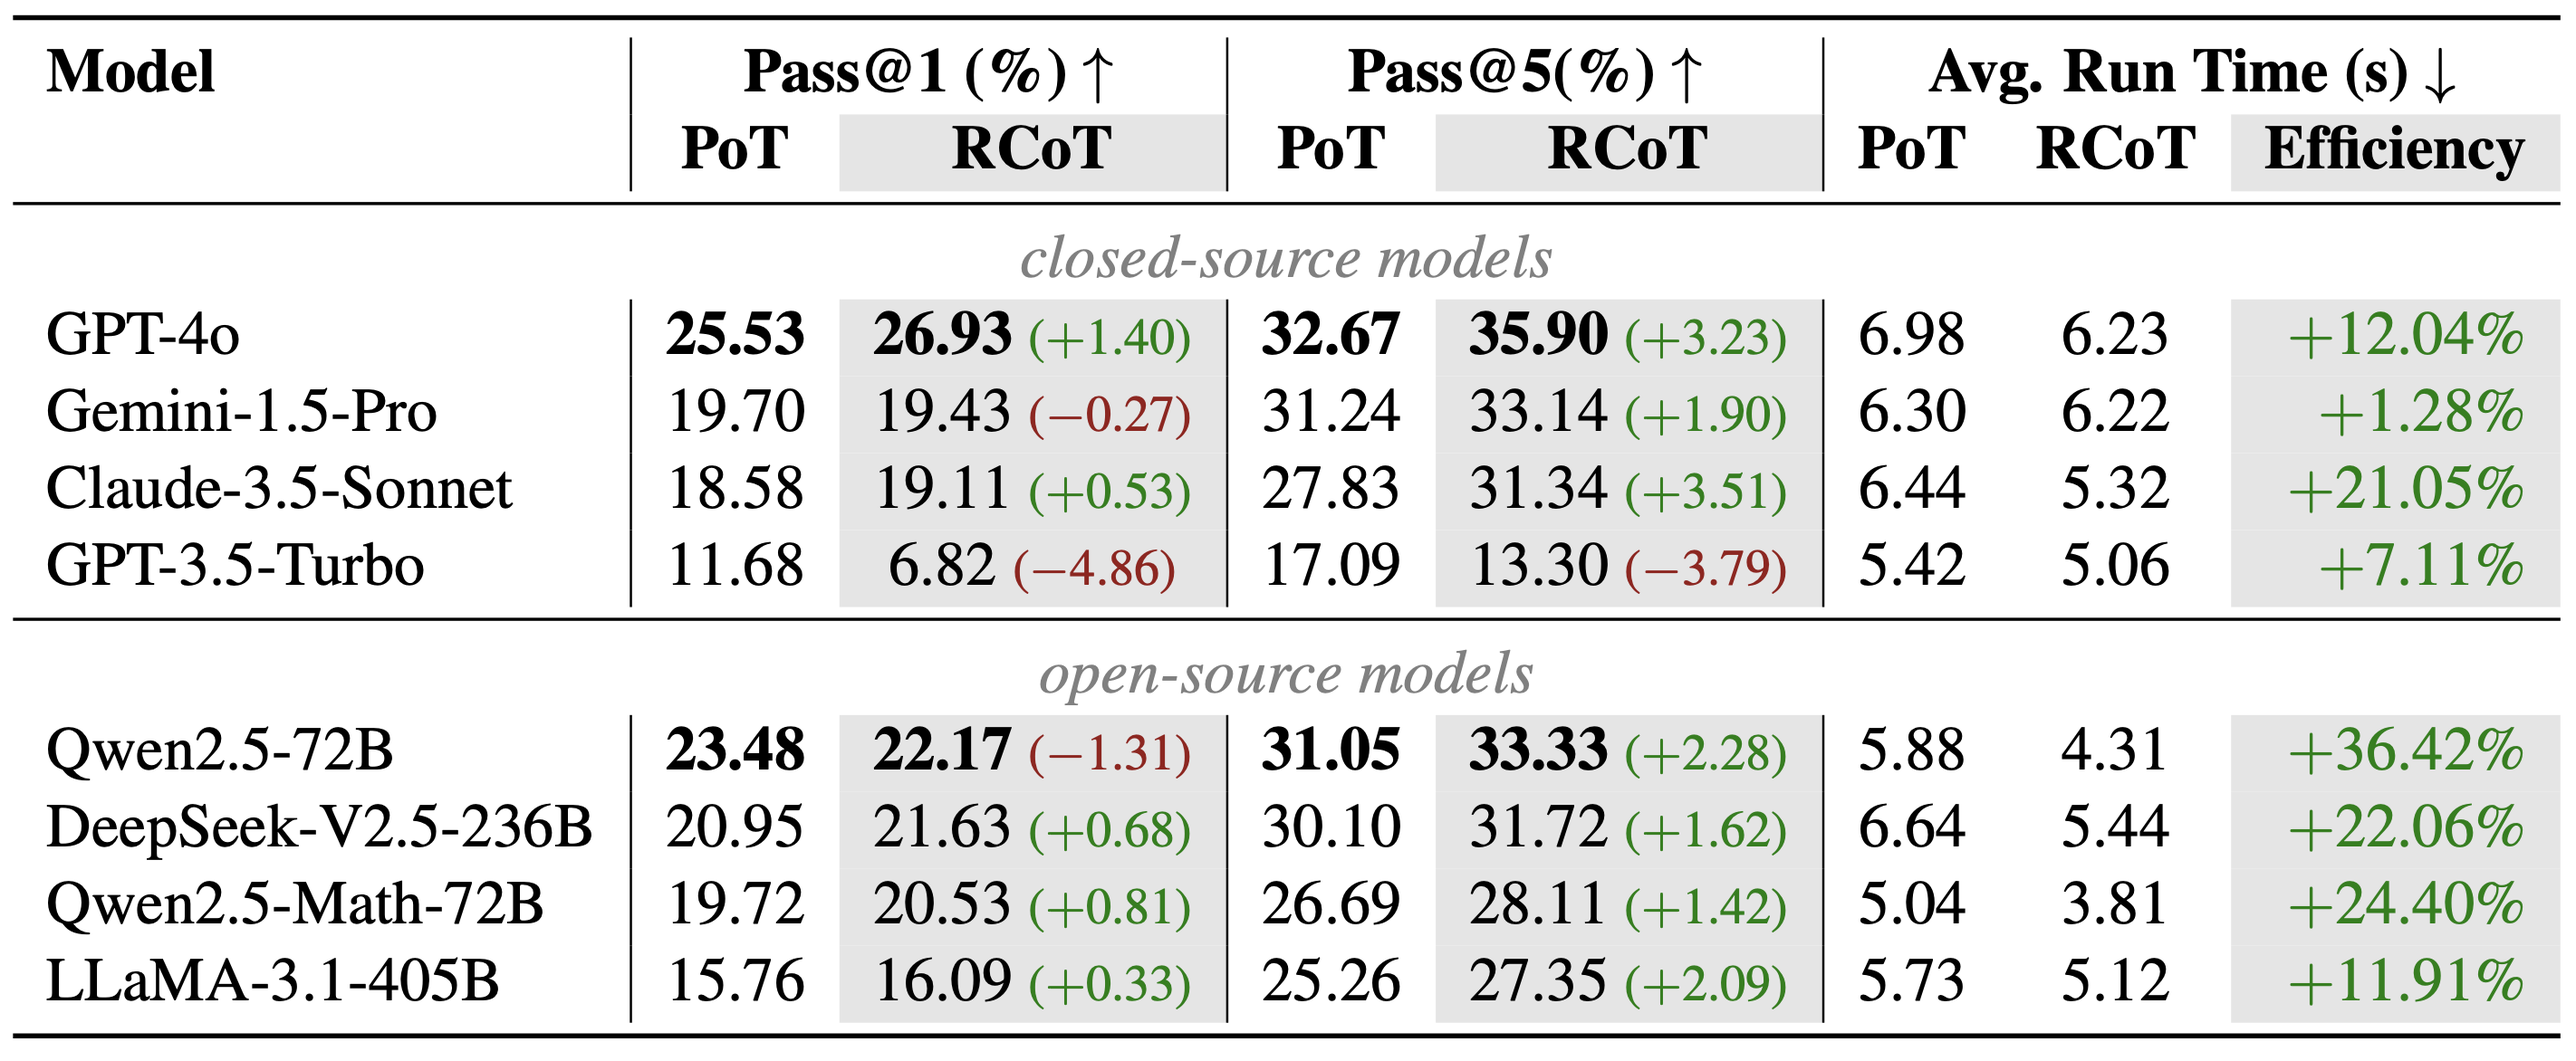
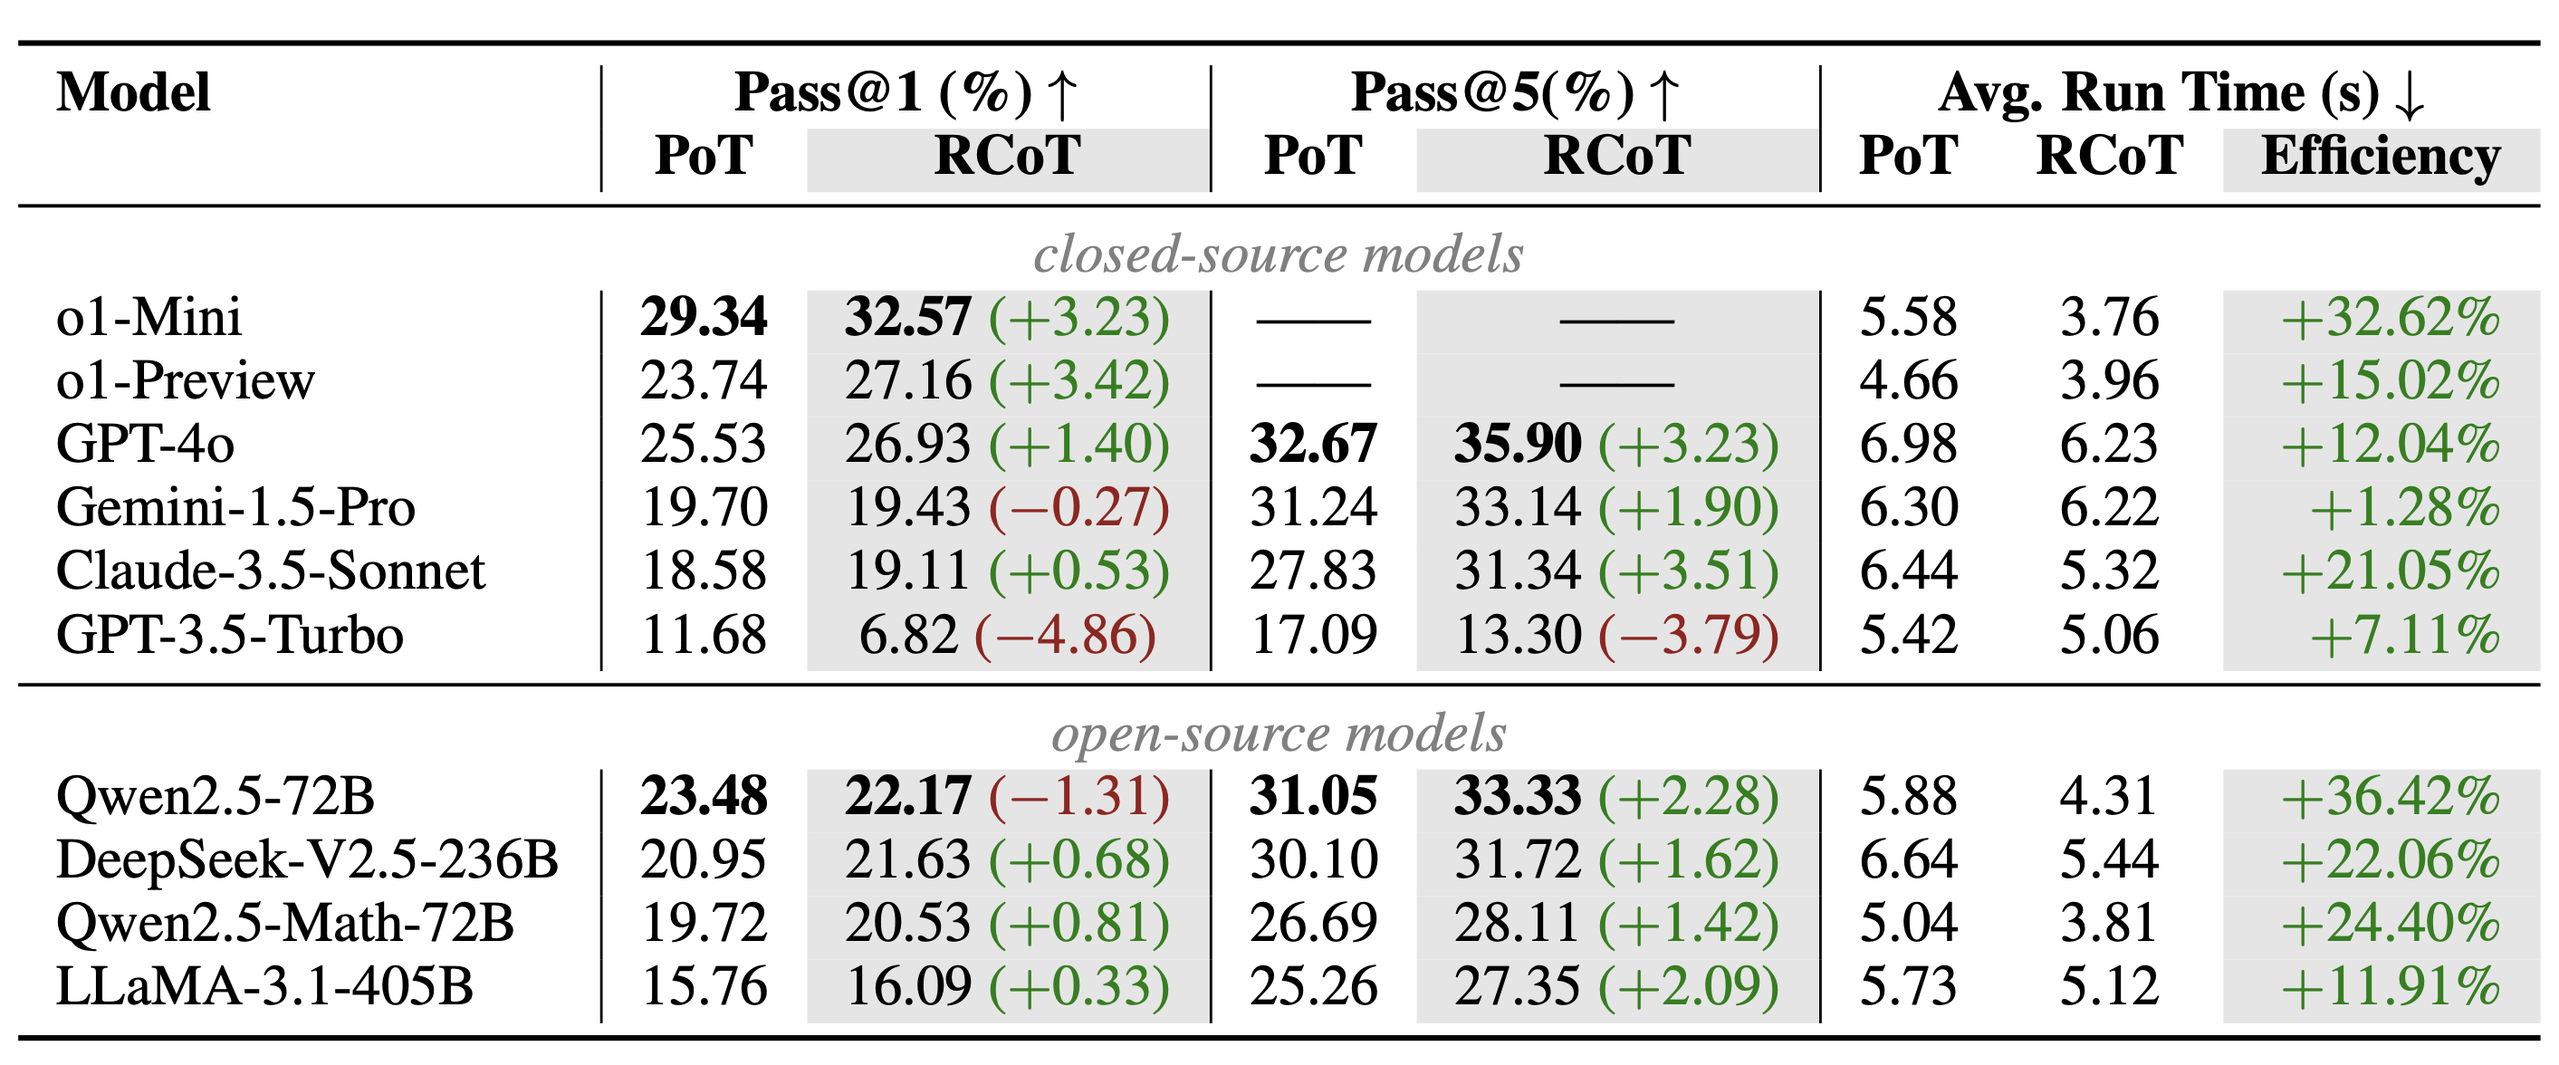
Update

Changed region(s): [[0.0, 0.0, 0.9965, 0.9829], [0.218, 0.5529, 0.2491, 0.5836]]

diff --git a/index.html b/index.html
@@ -56,19 +56,23 @@
             via Reasoning-to-Coding Thoughts</h1>
           <div class="is-size-5 publication-authors">
             <span class="author-block">Bo Yang<sup>1</sup>,</span>
-            <span class="author-block">Qingping Yang,</span>
-            <span class="author-block">Runtao Liu<sup>2</sup>,</span>
+            <span class="author-block">Qingping Yang<sup>2</sup>,</span>
+            <span class="author-block">Yingwei Ma<sup>2</sup>,</span>
+            <span class="author-block">Runtao Liu<sup>3</sup>,</span>
           </div>
           <div class="is-size-5 publication-authors">
             <span class="author-block"><sup>1</sup>South China University of Technology,</span>
-            <span class="author-block"><sup>2</sup>Hong Kong University of Science and Technology</span>
-            
+            <span class="author-block"><sup>2</sup>ReasonMind,</span>
+            <span class="author-block"><sup>3</sup>Hong Kong University of Science and Technology</span>
           </div>
           <div class="is-size-6 publication-authors">
             <span class="author-block">sdyangbo02 [at] mail [dot] scut [dot] edu [dot] cn </span>
           </div>
           <div class="is-size-6 publication-authors">
             <span class="author-block">qingping95 [at] gmail [dot] com </span>
+          </div>
+          <div class="is-size-6 publication-authors">
+            <span class="author-block">yingwei [dot] ywma [at] gmail [dot] com </span>
           </div>
           <div class="is-size-6 publication-authors">
             <span class="author-block">runtao219 [at] gmail [dot] com </span>
@@ -129,19 +133,21 @@
     <div class="content has-text-justified">
   <p align="center">
     <img alt="image" src="./images/overview.png">
+    <img alt="image" src="./images/Benchmark_Construction.png">
   </p>
   <p><i>
-    UTMath is a rigorous and expansive benchmark designed to evaluate the mathematical reasoning abilities of Large Language Models (LLMs), with an average of <strong>68 test cases</strong> per problem to ensure that the model <strong> solves the problem</strong> rather than simply memorizing the answers.
+    UTMath is a <strong>cutting-edge</strong> and comprehensive benchmark designed to evaluate the mathematical reasoning abilities of Large Language Models. It consists of <strong>1,053 problems</strong>, each with an average of <strong>68 test cases</strong>, ensuring that models <strong>genuinely solve the problems</strong> rather than merely recalling memorized answers.
   </i></p>
   <p><i>
     The Reasoning-to-Coding of Thoughts (RCoT) approach complements the UTMath Benchmark by encouraging LLMs to engage in explicit reasoning prior to generating code. RCoT significantly improves the efficiency and effectiveness of the solution, suggesting that it encourages the model to <strong>reason critically and find more efficient solutions</strong>.
   </i></p>
   
+  
   <ul>
     <li><b>⚡Multiple Case Validation</b>: Instead of using single cases that can be memorized, our questions are sequence-based, allowing numerous cases for validating true understanding.</li>
-    <li><b>🔧True Reasoning Evaluation</b>: Hard cases and runtime metrics help filter memorization and compare solution efficiency, precisely assessing reasoning abilities.</li>
-    <li><b>🏆Code Output Evaluation</b>: We require LLMs to output code, focusing on reasoning rather than direct answers, to better reflect their reasoning skills.</li>
-    <li><b>🌐Observation of Reasoning Process</b>: By mandating code implementation, we can observe and validate the LLM's reasoning process, not just the final answer.</li>
+    <li><b>🔧Code Output</b>: UTMath requires large models to solve cases by generating code, aiming for general solutions rather than problem-specific ones, reflecting a closer alignment with intelligence.</li>
+    <li><b>🏆Enhanced Reasoning</b>: Emphasizing reasoning allows large models to focus more on improving the quality of reasoning, thereby delivering higher-quality and more efficient solutions.</li>
+    <li><b>🌐Modularity</b>: By separating reasoning from implementation, it becomes possible to control variables and mitigate the impact of differences in reasoning and coding capabilities across various large models.</li>
   </ul>
   </div>
   </div>
@@ -152,6 +158,7 @@
     <div class="content has-text-justified">
       <p><b>[2024/11]</b>🚀🚀🚀: We released our <b>code</b>📝
       <p><b>[2024/11]</b>🚀🚀🚀: We released our benchmark <a href="https://github.com/UTMathGroup/UTMath/tree/main">UTMath</a>.</p>
+      <p><b>[2025/01]</b>🚀🚀🚀: UTMath has already received over 390 downloads on Hugging Face.</p>
     </div>
   </div>
 </section>
@@ -191,10 +198,10 @@
         <div class="content has-text-justified">
           <p>
             The evaluation of mathematical reasoning capabilities is essential for advancing Artificial General Intelligence (AGI). 
-            While Large Language Models (LLMs) have shown impressive performance in solving mathematical problems, existing benchmarks such as GSM8K and MATH present limitations, including narrow problem definitions with specific numbers and reliance on predetermined rules that hinder accurate assessments of reasoning and adaptability. 
-            This paper introduces the UTMath Benchmark, which robustly evaluates the models through extensive unit tests. It consists of 1,053 problems across 9 mathematical domains, with over 68 test cases per problem.
-            We propose an innovative evaluation framework inspired by unit testing in software development, focusing on both accuracy and reliability of results. 
-            Furthermore, we introduce the Reasoning-to-Coding of Thoughts (RCoT) approach, which encourages LLMs to perform explicit reasoning before generating code, leading to generating more advanced solution and improved performance. Furthermore, we are releasing not only the UTMath benchmark but also the UTMath-Train training dataset (more than 70k samples), to support the community in further exploring mathematical reasoning.          </p>
+            While Large Language Models (LLMs) have shown impressive performance in solving mathematical problems, existing benchmarks such as GSM8K and MATH present limitations, including narrow problem definitions with specific numbers and reliance on predetermined rules that hinder accurate assessments of reasoning and generality. 
+            This paper introduces the UTMath Benchmark, a robust evaluation framework designed to assess LLMs through extensive unit tests, with a focus on both the accuracy and generality of model responses. The benchmark comprises 1,053 cutting-edge problems spanning nine mathematical domains, with an average of 68 test cases per problem.
+            Furthermore, we present the Reasoning-to-Coding of Thoughts (RCoT) approach, which encourages LLMs to engage in explicit reasoning prior to code generation, thereby facilitating the production of more sophisticated solutions and enhancing overall performance and efficiency. Furthermore, we also release the UTMath-Train training dataset (more than 70k samples), to support the community in further exploring mathematical reasoning.
+          </p>
         </div>
       </div>
     </div>
@@ -216,7 +223,64 @@
           </p>
           <p align="center">
             <img width="774" alt="image" src="./images/leaderboard.png">
-            Pass Rate and Average Run Time of LLMs on UTMath. We listed the performance of eight large models using PoT(Program of Thoughts) and RCoT methods across a range of metrics. The average run time is calculated based on the problems solved by the PoT or RCoT methods. The efficiency is calculated as: (Avg.Runtime(PoT) - Avg.Runtime(RcoT)) / Avg.Runtime(RcoT).        
+            Pass Rate and Average Run Time of LLMs on UTMath. We listed the performance of eight large models using PoT(Program of Thoughts) and RCoT methods across a range of metrics. For o1-mini and o1-preview only Pass@1 data is currently available due to resource constraints. The average run time is calculated based on the problems solved by the PoT or RCoT methods. The efficiency is calculated as: (Avg.Runtime(PoT) - Avg.Runtime(RcoT)) / Avg.Runtime(RcoT).        
+          </p>
+        </div>
+      </div>
+    </div>
+  </div>
+</section>
+
+<section class="section">
+  <div class="container is-max-desktop">
+    <div class="columns is-centered has-text-centered">
+      <div class="column is-four-fifths">
+        <h2 class="title is-3">🚠 Generation Pipeline</h2>
+        <div class="content has-text-justified">
+          <p>
+            <li>The benchmark comprises 1,053 cutting-edge problems spanning nine mathematical domains, with an average of 68 test cases per problem.</li>          
+          </p>
+          <p align="center">
+            <img alt="image" src="./images/Benchmark_Construction.png">
+            UTMath generation pipeline.After downloading 23,238 Principle Sequences from OEIS and cleaning the data, 1,053 usable sequences were obtained. Descriptions were standardized by adding background information and improving readability (highlighted in green). Hard cases were introduced to enhance discriminative capability, including terms from later positions to prevent simplistic algorithms from passing.        
+          </p>
+        </div>
+      </div>
+    </div>
+  </div>
+</section>
+
+<section class="section">
+  <div class="container is-max-desktop">
+    <div class="columns is-centered has-text-centered">
+      <div class="column is-four-fifths">
+        <h2 class="title is-3">📋 Dataset Statistics</h2>
+        <div class="content has-text-justified">
+          <p>
+            <li>The benchmark comprises 1,053 cutting-edge problems spanning nine mathematical domains, with an average of 68 test cases per problem.</li>          
+          </p>
+          <p align="center">
+            <img alt="image" src="./images/Dataset_Statistics.png">
+            Comparison between UTMath and other benchmarks. UTMath offers a cutting-edge benchmark with a comprehensive set of 1,053 problems across multiple mathematical domains, providing a more accurate evaluation of LLMs' mathematical reasoning capabilities.        
+          </p>
+        </div>
+      </div>
+    </div>
+  </div>
+</section>
+
+<section class="section">
+  <div class="container is-max-desktop">
+    <div class="columns is-centered has-text-centered">
+      <div class="column is-four-fifths">
+        <h2 class="title is-3">📖 Case Study</h2>
+        <div class="content has-text-justified">
+          <p>
+            <li>This is a qualitative analysis case study of UTMath and RCoT.</li>          
+          </p>
+          <p align="center">
+            <img alt="image" src="./images/Case_Study.png">
+            GPT-4o solves UTMath_948 by the PoT method, by the RCoT method, respectively. PoT simply performs brute-force solving, while RCoT involves deeper reasoning through Case merging after a classification discussion and the application of Euler's formula, providing a solution with lower time complexity.        
           </p>
         </div>
       </div>
